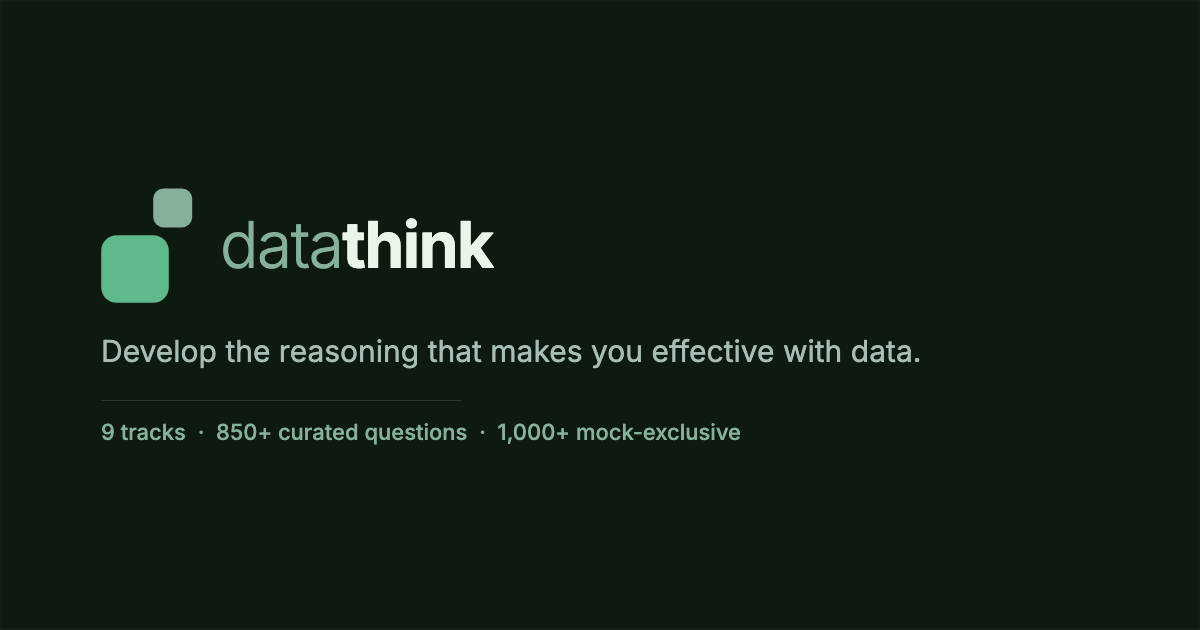
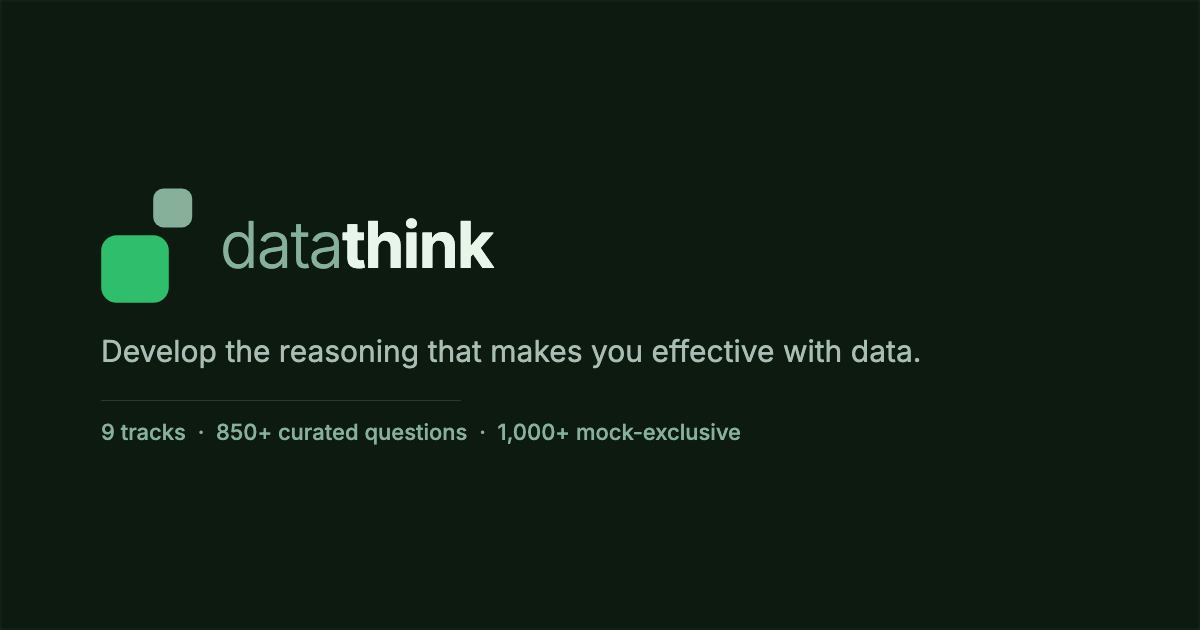
feat(dark): re-sharpen brand accent #5FB98C → #2FBE6B (was pale/minty)
The muted #5FB98C read pale/washed-out and minty (HSL 150/39/55 — hue 150
leans teal). Re-sharpened the dark --accent to #2FBE6B (HSL 145/60/47): hue
pulled off the mint edge toward emerald (150→145), saturation back to ~60%,
held slightly darker (L 47%) so it's vivid and legible (~7.2:1 on cards)
without the old #43D27C glow.

The one token carries ~263 uses; the 5 dark-scoped mock-hub rgba(95,185,140)
literals, the dark brand mark (mark-reverse-no-bg.svg + re-rendered
favicon/icon/OG PNGs), and --brand-accent all follow. Hue-only — frequency
and role usage unchanged. Light mode untouched (--accent stays #166534).
194 frontend tests green.

Changed region(s): [[0.0617, 0.3619, 0.1542, 0.4825]]

diff --git a/frontend/src/App.css b/frontend/src/App.css
@@ -6600,13 +6600,16 @@ select {
   --text-secondary: #9BA1A9;
   --text-muted:     #6E747D;
   --text-soft:      #474C54;
-  /* Move 1 (2026-06-17): chroma drop ~61%→~39% saturation, lightness held, so the
-     brand green reads as a calm accent on charcoal instead of glowing. Was #43D27C
-     (HSL 144,61,54). See docs/decisions/DECISIONS.md dark_accent_mute. */
-  --accent:             #5FB98C;
-  --accent-strong:      #74C79E;
-  --accent-soft:        rgba(95, 185, 140, 0.12);
-  --accent-soft-strong: rgba(95, 185, 140, 0.22);
+  /* Dark brand accent (2026-06-17). Journey: #43D27C (HSL 144,61,54) glowed on charcoal
+     → muted to #5FB98C (HSL 150,39,55), but at 39% sat it read pale/washed-out AND minty
+     (hue 150 leans teal) → re-sharpened to #2FBE6B (HSL 145,60,47): hue pulled off the
+     mint edge toward emerald (150→145), saturation back up (~60%), held slightly darker
+     so it's crisp, not glowing. See docs/decisions/DECISIONS.md dark_accent_mute +
+     dark_accent_resharpen. Light mode is untouched. */
+  --accent:             #2FBE6B;
+  --accent-strong:      #56D289;
+  --accent-soft:        rgba(47, 190, 107, 0.12);
+  --accent-soft-strong: rgba(47, 190, 107, 0.22);
   --success:       #4CAF82;
   --success-soft:  rgba(76, 175, 130, 0.12);
   --success-text:  #8BD2B0;
@@ -6619,7 +6622,7 @@ select {
   --shadow-sm: 0 1px 4px rgba(0, 0, 0, 0.40);
   --shadow-md: 0 4px 16px rgba(0, 0, 0, 0.40);
   --shadow-lg: 0 8px 40px rgba(0, 0, 0, 0.55);
-  --brand-accent: #5FB98C;
+  --brand-accent: #2FBE6B;
 }
 
 [data-theme="dark"] body { background: var(--bg-page); }
@@ -8415,7 +8418,7 @@ select {
 /* Benchmark blueprint keeps its green→blue gradient identity, with more presence
    than the light-mode 0.08 tints so it survives on the dark canvas. */
 [data-theme="dark"] .mock-hub-page .mock-benchmark-blueprint {
-  background: linear-gradient(135deg, rgba(95, 185, 140, 0.14), rgba(91, 106, 240, 0.16));
+  background: linear-gradient(135deg, rgba(47, 190, 107, 0.14), rgba(91, 106, 240, 0.16));
   border-color: rgba(91, 106, 240, 0.24);
 }
 
@@ -8459,7 +8462,7 @@ select {
    neutral surface lift + a soft accent outline — selection stays obvious, the green
    stops shouting. Hover brightens neutrally rather than flashing full green. */
 [data-theme="dark"] .mock-hub-page .mock-mode-card.selected {
-  border-color: rgba(95, 185, 140, 0.5);
+  border-color: rgba(47, 190, 107, 0.5);
   background: var(--surface-card-alt);
 }
 [data-theme="dark"] .mock-hub-page .mock-mode-card:hover:not(.selected):not(:disabled) {
@@ -8469,7 +8472,7 @@ select {
 /* Tier badges echo the tier language: Pro = green, Elite = teal (the premium
    end of the Elite green→teal gradient). Soft, label-weight. */
 [data-theme="dark"] .mock-hub-page .mock-mode-card-badge--pro {
-  background: rgba(95, 185, 140, 0.16);
+  background: rgba(47, 190, 107, 0.16);
   color: #62E195;
 }
 [data-theme="dark"] .mock-hub-page .mock-elite-badge-inline,
@@ -9287,8 +9290,8 @@ select {
   background: var(--surface-card-alt);
 }
 [data-theme="dark"] .mock-hub-empty-card--benchmark {
-  background: linear-gradient(135deg, rgba(95, 185, 140, 0.14), var(--surface-card-alt));
-  border-color: rgba(95, 185, 140, 0.22);
+  background: linear-gradient(135deg, rgba(47, 190, 107, 0.14), var(--surface-card-alt));
+  border-color: rgba(47, 190, 107, 0.22);
 }
 [data-theme="dark"] .mock-hub-empty-card--drill {
   background: linear-gradient(135deg, rgba(91, 106, 240, 0.20), var(--surface-card-alt));
@@ -14423,9 +14426,10 @@ button.mock-focus-locked:hover {
 .acct-id-chip-icon { font-size: 0.7rem; opacity: 0.55; }
 
 /* ============================================================
-   Dark-mode accent calm (2026-06-17). Pairs with the muted --accent (#5FB98C)
-   in [data-theme="dark"] above. See docs/design/color-palette.md and
-   docs/decisions/DECISIONS.md (dark_accent_mute).
+   Dark-mode accent calm (2026-06-17). Pairs with the re-sharpened --accent
+   (#2FBE6B, HSL 145/60/47 — was muted #5FB98C, too pale/minty) in
+   [data-theme="dark"] above. See docs/design/color-palette.md and
+   docs/decisions/DECISIONS.md (dark_accent_mute + dark_accent_resharpen).
 
    A broad "de-overload" pass — demoting link-arrows, kickers, numerals, and
    upgrade washes to neutral — was trialed and REVERTED after review: on a dark

diff --git a/docs/design/dark-mode-comparison.html b/docs/design/dark-mode-comparison.html
@@ -34,15 +34,16 @@
     --info-soft:rgba(14,99,165,0.10); --info-text:#0C447C;
   }
 
-  /* theme-darkcur now reflects the SHIPPED dark theme (2026-06-17): muted accent
-     #5FB98C. Earlier audit used an exploratory #4CBD83; production was #43D27C — both
-     superseded. See docs/design/color-palette.md + DECISIONS.md dark_accent_mute. */
+  /* theme-darkcur now reflects the SHIPPED dark theme (2026-06-17): re-sharpened accent
+     #2FBE6B (HSL 145/60/47). History: production #43D27C glowed → muted #5FB98C read pale/minty
+     → re-sharpened #2FBE6B. Earlier audit used an exploratory #4CBD83 — superseded.
+     See docs/design/color-palette.md + DECISIONS.md dark_accent_mute + dark_accent_resharpen. */
   .theme-darkcur {
     --bg-page:#121315; --surface-canvas:#1A1B1E; --surface-card:#1A1B1E; --surface-card-alt:#212327;
     --surface-card-soft:#1B1C1F; --surface-highlight:#282A2E;
     --border-subtle:rgba(228,231,235,0.08); --border-strong:rgba(228,231,235,0.14);
     --text-strong:#ECEEF0; --text-primary:#CDD1D6; --text-secondary:#9BA1A9; --text-muted:#6E747D; --text-soft:#474C54;
-    --accent:#5FB98C; --accent-strong:#74C79E; --accent-soft:rgba(95,185,140,0.12); --accent-soft-strong:rgba(95,185,140,0.22); --on-accent:#0A1F12;
+    --accent:#2FBE6B; --accent-strong:#56D289; --accent-soft:rgba(47,190,107,0.12); --accent-soft-strong:rgba(47,190,107,0.22); --on-accent:#0A1F12;
     --cta-bg:#1C8A4F; --cta-fg:#FFFFFF;
     --success:#4CAF82; --success-soft:rgba(76,175,130,0.12); --success-text:#8BD2B0;
     --warning:#D4973A; --warning-soft:rgba(212,151,58,0.12); --warning-text:#E2BD79;

diff --git a/docs/design/color-palette.md b/docs/design/color-palette.md
@@ -51,19 +51,23 @@ that pops, not the environment. The earlier green-tinted "Forest" dark surfaces
 (`#0D1A10` page, `#132218` cards) put the brand hue into the background, text, and
 accent all at once, so it read as "too green / neon" for a distraction-free study
 tool. The fix demotes green from the environment to an accent on a calm charcoal
-ground — a **muted sage-emerald `#5FB98C`** (2026-06-17). This landed in two steps:
-first a *bright* emerald `#43D27C` (2026-06-13, de-neoned from the original `#4ADE80`);
-then — when even that still read as *glowing* on charcoal across dense screens (~20
-green hits per page) — a **chroma drop** to `#5FB98C` (HSL 150/39/55): saturation
-61%→39% with lightness held, so it stays fully legible (~7.2:1 on cards) but stops
-radiating. It's chroma-matched to `--success` (the calm green nobody ever flagged).
-A broader pass that *demoted* links / kickers / numerals / upgrade-washes to neutral
-was trialed and **reverted** — on a dark ground, color is the click/affordance signal,
-so those all keep the muted green and the CTA keeps its deep `#1C8A4F`; only the
-**SESSION DEBRIEF** results panel stays neutral (a green wash there competed with the
-page CTA). Light mode is unchanged (still Forest & Ink — deep-green `#166534` on warm
-paper). See [`docs/decisions/DECISIONS.md`](../decisions/DECISIONS.md) (2026-06-12
-charcoal, 2026-06-13 accent tone-down, 2026-06-17 `dark_accent_mute`).
+ground — a crisp emerald **`#2FBE6B`** (HSL 145/60/47, 2026-06-17). The hue arrived in
+three steps: (1) a *bright* emerald `#43D27C` (2026-06-13, de-neoned from the original
+`#4ADE80`); (2) when even that still *glowed* on charcoal across dense screens (~20 green
+hits per page), a **chroma drop** to a muted sage `#5FB98C` (HSL 150/39/55, saturation
+61%→39%) — calm, but at 39% it read **pale/washed-out and minty** (hue 150 leans teal)
+and the crisp track colors drowned it; (3) a **re-sharpen** to `#2FBE6B` — hue pulled off
+the mint edge toward emerald (150→145), saturation back up to ~60%, held slightly darker
+(L 47%) so it stays vivid and legible (~7.2:1 on cards) without radiating. A broader pass
+that *demoted* links / kickers / numerals / upgrade-washes to neutral was trialed and
+**reverted** in the mute era — on a dark ground, color was the click/affordance signal,
+so those kept the green and the CTA keeps its deep `#1C8A4F`; only the **SESSION DEBRIEF**
+results panel stays neutral (a green wash there competed with the page CTA). *(A
+deliberate role-differentiation pass — reserving solid green, giving success an outlined
+treatment — is tracked separately under `dark_accent_differentiation`.)* Light mode is
+unchanged (still Forest & Ink — deep-green `#166534` on warm paper). See
+[`docs/decisions/DECISIONS.md`](../decisions/DECISIONS.md) (2026-06-12 charcoal,
+2026-06-13 accent tone-down, 2026-06-17 `dark_accent_mute` + `dark_accent_resharpen`).
 
 | Token | Value | Role |
 |---|---|---|
@@ -80,10 +84,10 @@ charcoal, 2026-06-13 accent tone-down, 2026-06-17 `dark_accent_mute`).
 | `--text-secondary` | `#9BA1A9` | Secondary labels |
 | `--text-muted` | `#6E747D` | Placeholder |
 | `--text-soft` | `#474C54` | Disabled / faint |
-| `--accent` | `#5FB98C` | Brand green accent — active states, links, small fills (NOT the primary button). Muted from `#43D27C` on 2026-06-17 |
-| `--accent-strong` | `#74C79E` | Hover/pressed accent |
-| `--accent-soft` | `rgba(95, 185, 140, 0.12)` | Accent tint |
-| `--accent-soft-strong` | `rgba(95, 185, 140, 0.22)` | Stronger accent tint |
+| `--accent` | `#2FBE6B` | Brand green accent — active states, links, small fills (NOT the primary button). Muted `#43D27C`→`#5FB98C` then re-sharpened `#5FB98C`→`#2FBE6B` on 2026-06-17 |
+| `--accent-strong` | `#56D289` | Hover/pressed accent |
+| `--accent-soft` | `rgba(47, 190, 107, 0.12)` | Accent tint |
+| `--accent-soft-strong` | `rgba(47, 190, 107, 0.22)` | Stronger accent tint |
 | `--success` | `#4CAF82` | Correct answer |
 | `--success-soft` | `rgba(76, 175, 130, 0.12)` | Success tint |
 | `--success-text` | `#8BD2B0` | Success text |
@@ -93,15 +97,15 @@ charcoal, 2026-06-13 accent tone-down, 2026-06-17 `dark_accent_mute`).
 | `--danger` | `#E06B5A` | Error / wrong |
 | `--danger-soft` | `rgba(224, 107, 90, 0.12)` | Danger tint |
 | `--danger-text` | `#F0B8B1` | Danger text |
-| `--brand-accent` | `#5FB98C` | Brand green accent for dark surfaces (Razorpay checkout theme) |
+| `--brand-accent` | `#2FBE6B` | Brand green accent for dark surfaces (Razorpay checkout theme) |
 
 **Primary button (dark) is NOT `--accent`.** On charcoal, white text on the
-muted green `--accent` (`#5FB98C`) fails contrast (~1.6:1, harsh). The primary
+green `--accent` (`#2FBE6B`) fails contrast for white text (~2.4:1, harsh). The primary
 action button (`.btn-primary` and everything that composes it — `.mock-start-btn`,
 both `UpgradeButton` tiers, plus `.auth-submit-btn` / `.acct-save-btn` /
 `.path-nav-btn--next` / `.lp-paths-cta-primary`) uses a deep **"action green"
 `#1C8A4F` + white** (~4.4:1 on a 600-weight label), hover `#229B5A`. This is the
-two-tier green system: *muted `#5FB98C` for accents, deep `#1C8A4F` for the
+two-tier green system: *green `#2FBE6B` for accents, deep `#1C8A4F` for the
 solid action button.* The **Elite** upgrade button keeps the two-tone
 **green→teal gradient** `#1C8A4F → #109488` (hover `#229B5A → #14A498`); **Pro**
 is the solid deep green. These are literals on the button rules, not tokens,
@@ -114,10 +118,10 @@ rather than white.
 Two diagonal rounded squares — big block anchored bottom-left, small block floating top-right — creating a thought-bubble feel.
 
 **Light:** big block `#166534`, small block `#4B6858`  
-**Dark:** big block `#5FB98C`, small block `#87B09A`
+**Dark:** big block `#2FBE6B`, small block `#87B09A`
 
-The dark mark green is **`#5FB98C`** — re-matched to the muted UI `--accent` on
-2026-06-17 (it had tracked the accent since 2026-06-13's `#43D27C`). The mark is a static
+The dark mark green is **`#2FBE6B`** — it tracks the UI `--accent` (re-matched
+`#43D27C` 2026-06-13 → `#5FB98C` 2026-06-17 → re-sharpened to `#2FBE6B` same day). The mark is a static
 SVG (`/branding/mark-reverse-no-bg.svg`, used directly as an `<img>`, so editing it fixes
 the in-app logo with no render step), and the favicons / app icons / Open Graph card are
 PNGs **re-rendered from the SVG sources** (`favicon.svg`, `icon-maskable.svg`,

diff --git a/docs/decisions/DECISIONS.md b/docs/decisions/DECISIONS.md
@@ -35,6 +35,13 @@ Keep entries to 4–6 lines. Friction kills logs; if it's longer than the change
 
 ## Entries
 
+## 2026-06-17 — Dark accent re-sharpened #5FB98C → #2FBE6B (the mute went too pale/minty)
+**Area:** frontend · design · **Status:** accepted
+**Decision:** Lived-in, the muted `#5FB98C` (HSL 150/39/55) read **pale/washed-out and minty** — at 39% saturation the crisp track colors always drowned it, and hue 150 leans teal rather than green. Re-sharpened the dark `--accent` to **`#2FBE6B`** (HSL 145/60/47): hue pulled off the mint edge toward emerald (150→145), saturation back to ~60%, held slightly darker (L 47%) so it's vivid and legible (~7.2:1 on cards) without the `#43D27C` glow. The one token carries ~263 uses; the 5 hardcoded mock-hub `rgba(95,185,140)` literals, the dark brand mark (`mark-reverse-no-bg.svg` + re-rendered favicon/icon/OG PNGs), and `--brand-accent` all follow. **Hue-only — frequency/role usage unchanged.** Light mode untouched.
+**Rejected:** (a) Nudging saturation up while keeping hue 150 (`#5BC18E`-ish) — still minty; the *hue* was the problem, not just chroma. (b) Returning to the bright `#43D27C` — that's the glow the mute removed. (c) Moving the brand accent off green to a non-green hue (the textbook brand≠success separation) — a partial rebrand of the green datathink identity; named honestly, deferred, not taken.
+**Affects:** frontend/src/App.css (dark `--accent`/`-strong`/`-soft`/`-soft-strong` + `--brand-accent` + 5 rgba literals + 2 comments), frontend/public/{favicon,icon-maskable,og-image,branding/mark-reverse-no-bg}.svg + 7 re-rendered dark PNGs, docs/design/color-palette.md, docs/frontend.md, docs/design/dark-mode-comparison.html.
+**Refines:** 2026-06-17 `dark_accent_mute` (hue value only — its "mute the accent globally, don't make green rare" rule is untouched here; a separate, deliberate role-differentiation pass will revisit that).
+
 ## 2026-06-17 — Mock NEXT STEP breaks weak-concept ties toward a known cross-session weakness
 **Area:** mock · frontend · **Status:** accepted
 **Decision:** When session concepts tie on accuracy + attempts (e.g. several at `0/1`), the debrief's NEXT STEP concept (`weak[0]`) now breaks the tie toward a **known cross-session weakness** (≥3 past attempts, <60% historical accuracy) before falling back to question order. The "known weak" test — already used for the pattern wording — is extracted to one helper `_is_known_weak` and reused in the `weak` sort (single definition, no duplication). The frontend mirrors this by **floating the backend's `priority_concept` to the top row** of the concept breakdown rather than re-deriving the tiebreak in JS, so the table's first row always equals NEXT STEP.

diff --git a/docs/frontend.md b/docs/frontend.md
@@ -237,7 +237,7 @@ When `solved_count === question_count`, a completion banner is shown with a "Wha
 
 #### Brand icons & social card
 
-All brand icons derive from the canonical two-diagonal-squares mark on the Forest & Ink ground `#0D1A10` (green mark `#5FB98C`/`#87B09A` — kept matched to the UI accent: `#4ADE80`→`#43D27C` 2026-06-13, `#43D27C`→`#5FB98C` 2026-06-17).
+All brand icons derive from the canonical two-diagonal-squares mark on the Forest & Ink ground `#0D1A10` (green mark `#2FBE6B`/`#87B09A` — kept matched to the UI accent: `#4ADE80`→`#43D27C` 2026-06-13, `#43D27C`→`#5FB98C`→`#2FBE6B` 2026-06-17).
 
 **Source SVGs** (do not modify — these are the design source of truth):
 - `frontend/public/favicon.svg` — 64×64 rounded chip; **theme-adaptive** via an internal `@media (prefers-color-scheme)` block: dark scheme = forest-ink chip (`#0D1A10`) + bright mark; light scheme = white chip + hairline border + deep-green mark (`#166534`/`#4B6858`). Source for both dark and light favicon PNGs.
@@ -487,7 +487,7 @@ palette doc.
 | `--text-primary` | `#1D3526` | `#CDD1D6` | Body text |
 | `--text-secondary` | `#4B6858` | `#9BA1A9` | Labels, metadata |
 | `--text-muted` | `#7A9485` | `#6E747D` | Placeholders, disabled |
-| `--accent` | `#166534` | `#5FB98C` | Active states, links, small accents (dark muted from `#43D27C` 2026-06-17) |
+| `--accent` | `#166534` | `#2FBE6B` | Active states, links, small accents (dark `#43D27C`→`#5FB98C`→re-sharpened `#2FBE6B` 2026-06-17) |
 | `--success` | `#15803D` | `#4CAF82` | Correct answer |
 | `--warning` | `#C47F17` | `#D4973A` | Hints, locked |
 | `--danger` | `#D94F3D` | `#E06B5A` | Errors, wrong answer |
